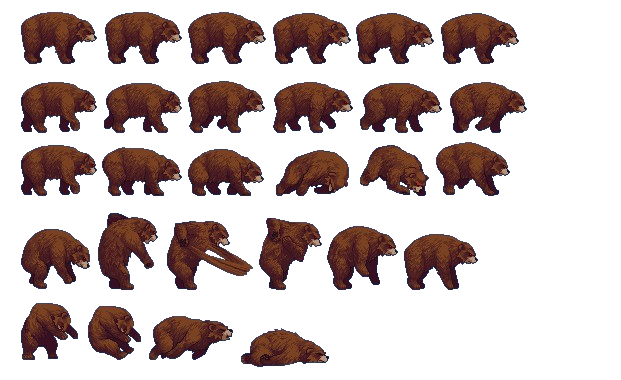
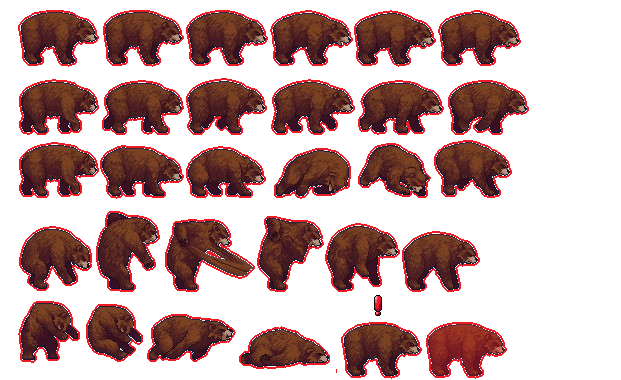
Put red-outlined pngs for frog and bear, and put new alert frames in pngs

diff --git a/source/core/src/main/com/csse3200/game/components/ProximityComponent.java b/source/core/src/main/com/csse3200/game/components/ProximityComponent.java
@@ -50,6 +50,7 @@ public class ProximityComponent extends Component {
         entity.getEvents().addListener("proximityTriggered", () -> {
             AnimationRenderComponent animationComponent = entity.getComponent(AnimationRenderComponent.class);
             animationComponent.startAnimation("spawn");
+            entity.setEnabled(true);
 
             // Listen for when the spawn animation ends
             entity.getEvents().addListener("animationEnd", (String animationName) -> {

diff --git a/source/core/src/test/com/csse3200/game/entities/factories/EnemyFactoryTest.java b/source/core/src/test/com/csse3200/game/entities/factories/EnemyFactoryTest.java
@@ -52,7 +52,7 @@ class EnemyFactoryTest {
             "images/chicken3.png",
             "images/monkey.png",
             "images/frog.png",
-            "images/bear.png"
+            "images/bear1.png"
     };
 
     private String[] atlas = {
